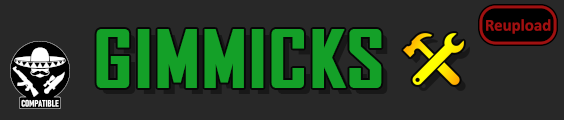
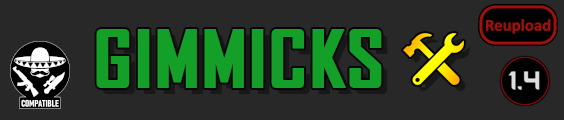
Last update, added end-of-life message

Changed region(s): [[0.8741, 0.45, 0.9947, 0.9]]

diff --git a/README.md b/README.md
@@ -7,7 +7,7 @@ https://steamcommunity.com/sharedfiles/filedetails/?id=1838946720
 
 - The CE-patches are now included in the main CE-mod instead
 
-![Image](https://i.imgur.com/pufA0kM.png)
+![Image](https://i.imgur.com/CN9Rs5X.png)
 
 	
 ![Image](https://i.imgur.com/Z4GOv8H.png)
@@ -122,3 +122,4 @@ This mod has nostalic meaning to me, and i wanted to thank Madman for all his wo
 
 
 
+https://steamcommunity.com/sharedfiles/filedetails/changelog/2168169520]Last updated 2023-08-08
